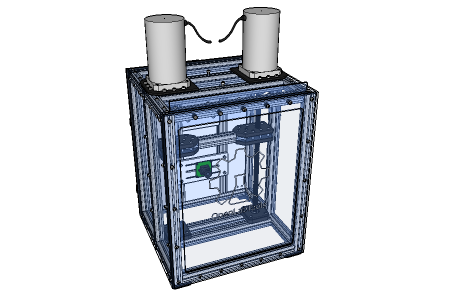
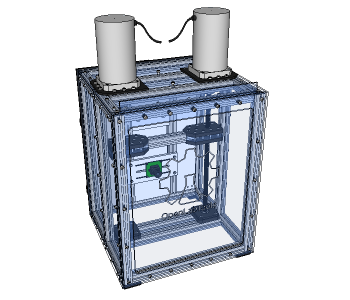
Shrink small images to display correctly side by side

Changed region(s): [[0.2, 0.0, 0.7714, 0.99]]

diff --git a/cad/panels/openlabtools_exporter.rb b/cad/panels/openlabtools_exporter.rb
@@ -35,7 +35,7 @@ def export_screenshots_and_save()
     $model.active_view.write_image({:filename => image_name + ".png",
       :width => 1280, :height => 720, :antialias => true, :compression => 0.9, :transparent => true})
     $model.active_view.write_image({:filename => image_name + "_small.png",
-      :width => 450, :height => 300, :antialias => true, :compression => 0.9, :transparent => true})
+      :width => 350, :height => 300, :antialias => true, :compression => 0.9, :transparent => true})
     i += 1
   end
   pages.selected_page = pages[0] # Set to front view
